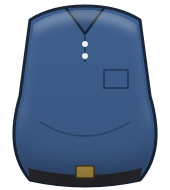
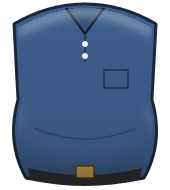
Autista del furgone: robusto con un filo di pancia (via di mezzo)

diff --git a/docs/index.html b/docs/index.html
@@ -279,7 +279,7 @@
 	<script type='text/javascript' src='index.js'></script>
 	<script type='text/javascript'>//<![CDATA[
 
-		const GODOT_CONFIG = {"args":[],"canvasResizePolicy":2,"executable":"index","experimentalVK":false,"fileSizes":{"index.pck":3149936,"index.wasm":19793932},"focusCanvas":true,"gdnativeLibs":[]};
+		const GODOT_CONFIG = {"args":[],"canvasResizePolicy":2,"executable":"index","experimentalVK":false,"fileSizes":{"index.pck":3149264,"index.wasm":19793932},"focusCanvas":true,"gdnativeLibs":[]};
 		var engine = new Engine(GODOT_CONFIG);
 
 		(function() {

diff --git a/strumenti/disegni_furgone.py b/strumenti/disegni_furgone.py
@@ -1,7 +1,7 @@
 # Disegni SVG del furgone del Maglificio Granada e del suo autista (a pezzi, al doppio della grandezza nel gioco).
 # Il furgone è un furgone alto azzurro visto di lato, con il muso a destra e il portellone dietro aperto:
 # simile a quello della foto di Riccardo, ma senza marchi né scritte vere.
-# L'autista: moro, un po' in carne, polo blu e jeans. Origine tra i piedi, alto circa 340 come gli operatori.
+# L'autista: moro, robusto con un filo di pancia (spalle larghe, viso pieno), polo blu e jeans. Origine tra i piedi, alto circa 340 come gli operatori.
 # Uso: python strumenti/disegni_furgone.py   (dalla cartella del progetto), poi python strumenti/stile_finale.py
 import os
 
@@ -46,12 +46,12 @@ FURGONE = svg(660, 420, f'''<path d="M58 344 L58 92 Q58 62 88 62 L470 62 Q502 62
 <circle cx="500" cy="352" r="56" fill="#2B2B30" stroke="#121214" stroke-width="5"/><circle cx="500" cy="352" r="26" fill="#9AA0A6" stroke="#5E646A" stroke-width="4"/></g>
 <path d="M104 344 Q168 268 232 344 M436 344 Q500 268 564 344" fill="none" stroke="{BORDO}" stroke-width="6"/>''')
 
-# autista: testa tonda e piena, capelli scuri corti, un filo di barba, sorriso largo; perno al collo (60, 118)
+# autista: testa con la mascella decisa, capelli scuri corti, un filo di barba, sorriso largo; perno al collo (60, 118)
 TESTA = svg(120, 124, f'''<ellipse cx="12" cy="66" rx="9" ry="13" fill="{PELLE}" stroke="{LINEA}" stroke-width="4"/>
 <ellipse cx="108" cy="66" rx="9" ry="13" fill="{PELLE}" stroke="{LINEA}" stroke-width="4"/>
 <rect x="38" y="96" width="44" height="24" fill="{PELLE}" stroke="{LINEA}" stroke-width="4"/>
-<path d="M14 58 Q12 12 60 10 Q108 12 106 58 Q108 104 60 108 Q12 104 14 58 Z" fill="{PELLE}" stroke="{LINEA}" stroke-width="5"/>
-<path d="M28 94 Q60 116 92 94" fill="none" stroke="#C99A72" stroke-width="4" stroke-linecap="round"/>
+<path d="M15 57 Q13 12 60 10 Q107 12 105 57 Q106 98 82 106 Q60 112 38 106 Q14 98 15 57 Z" fill="{PELLE}" stroke="{LINEA}" stroke-width="5"/>
+<path d="M34 100 Q60 114 86 100" fill="none" stroke="#C99A72" stroke-width="3.5" stroke-linecap="round" opacity="0.6"/>
 <path d="M20 76 Q24 104 60 106 Q96 104 100 76 Q90 96 60 98 Q30 96 20 76 Z" fill="{CAPELLI}" opacity="0.28"/>
 <path d="M14 52 Q10 14 58 8 Q104 8 106 50 Q98 30 80 26 Q62 34 40 28 Q22 32 14 52 Z" fill="{CAPELLI}" stroke="#1E120A" stroke-width="5" stroke-linejoin="round"/>
 <path d="M32 52 Q42 46 52 51 M68 51 Q78 46 88 52" fill="none" stroke="{CAPELLI}" stroke-width="5" stroke-linecap="round"/>
@@ -62,19 +62,19 @@ TESTA = svg(120, 124, f'''<ellipse cx="12" cy="66" rx="9" ry="13" fill="{PELLE}"
 <ellipse cx="28" cy="80" rx="8" ry="5" fill="#FF8A8A" opacity="0.4"/><ellipse cx="92" cy="80" rx="8" ry="5" fill="#FF8A8A" opacity="0.4"/>
 <path d="M40 88 Q60 104 80 88" fill="#FFFFFF" stroke="{LINEA}" stroke-width="4" stroke-linejoin="round"/>''')
 
-# corpo: polo blu con la pancia tonda; perno in basso al centro (85, 186), spalle in alto a y 10
-CORPO = svg(170, 190, f'''<path d="M30 20 Q52 6 85 6 Q118 6 140 20 L150 96 Q166 150 140 180 Q85 192 30 180 Q4 150 20 96 Z" fill="{POLO}" stroke="{POLO_SCURO}" stroke-width="5" stroke-linejoin="round"/>
+# corpo: polo blu su un busto robusto, spalle larghe e torace ampio; perno in basso al centro (85, 186), spalle in alto a y 10
+CORPO = svg(170, 190, f'''<path d="M14 24 Q48 4 85 4 Q122 4 156 24 L152 100 Q164 142 144 178 Q85 190 26 178 Q6 142 18 100 Z" fill="{POLO}" stroke="{POLO_SCURO}" stroke-width="5" stroke-linejoin="round"/>
+<path d="M34 128 Q85 150 136 128" fill="none" stroke="{POLO_SCURO}" stroke-width="3" opacity="0.5"/>
 <path d="M66 8 L85 34 L104 8" fill="#2A4A78" stroke="{POLO_SCURO}" stroke-width="4" stroke-linejoin="round"/>
 <path d="M85 34 L85 62" stroke="{POLO_SCURO}" stroke-width="3"/><circle cx="85" cy="44" r="3" fill="#E8EEF6"/><circle cx="85" cy="56" r="3" fill="#E8EEF6"/>
-<path d="M40 122 Q85 150 130 122" fill="none" stroke="{POLO_SCURO}" stroke-width="3" opacity="0.6"/>
 <path d="M28 168 Q85 182 142 168 L140 180 Q85 192 30 180 Z" fill="#2A2A30"/>
 <rect x="76" y="166" width="18" height="12" rx="2" fill="#C9A445" stroke="#6A5418" stroke-width="2"/>
 <path d="M104 70 L128 70 L128 88 L104 88 Z" fill="none" stroke="{POLO_SCURO}" stroke-width="3"/>''')
 
 # braccio: manica corta della polo e avambraccio; perno alla spalla (22, 12)
-BRACCIO = svg(44, 136, f'''<path d="M6 10 Q22 0 38 10 L40 52 L4 52 Z" fill="{POLO}" stroke="{POLO_SCURO}" stroke-width="5" stroke-linejoin="round"/>
-<path d="M10 50 L34 50 L32 106 L12 106 Z" fill="{PELLE}" stroke="{LINEA}" stroke-width="4" stroke-linejoin="round"/>
-<ellipse cx="22" cy="118" rx="15" ry="15" fill="{PELLE}" stroke="{LINEA}" stroke-width="4"/>
+BRACCIO = svg(44, 136, f'''<path d="M2 10 Q22 -2 42 10 L44 54 L0 54 Z" fill="{POLO}" stroke="{POLO_SCURO}" stroke-width="5" stroke-linejoin="round"/>
+<path d="M6 52 L38 52 L35 106 L9 106 Z" fill="{PELLE}" stroke="{LINEA}" stroke-width="4" stroke-linejoin="round"/>
+<ellipse cx="22" cy="118" rx="17" ry="16" fill="{PELLE}" stroke="{LINEA}" stroke-width="4"/>
 <path d="M12 116 Q10 126 16 128" fill="none" stroke="{LINEA}" stroke-width="3" stroke-linecap="round"/>''')
 
 # gamba: jeans e scarpe da lavoro; perno in alto (24, 6)

diff --git a/CLAUDE.md b/CLAUDE.md
@@ -198,7 +198,7 @@ Il nemico nuovo sono i **coni di filato che rotolano**: cadono dal soppalco o da
 
 Il pulcino resta allo stadio 2 di crescita, come nel cortile e nell'orto.
 
-In fondo al magazzino, davanti al portone, c'è un **furgone azzurro** (come quello della foto di Riccardo, senza marchi) con il portellone aperto: ci si sale sul tetto, dove ci sono dei chicchi. Accanto c'è il suo **autista**, moro e un po' in carne: si gratta la pancia, saluta, guarda l'orologio e si sorprende quando il pulcino gli passa vicino («Ehi, pulcino!»).
+In fondo al magazzino, davanti al portone, c'è un **furgone azzurro** (come quello della foto di Riccardo, senza marchi) con il portellone aperto: ci si sale sul tetto, dove ci sono dei chicchi. Accanto c'è il suo **autista**, moro, robusto con un filo di pancia: si gratta la pancia, saluta, guarda l'orologio e si sorprende quando il pulcino gli passa vicino («Ehi, pulcino!»).
 
 ### Tappa 16 — Gli operatori
 I quattro operatori con il camice blu, ognuno con la sua mossa, animati in modo esagerato (si piegano, caricano il lancio, esultano). Si provano in una piccola area di prova, come per la beccata.
